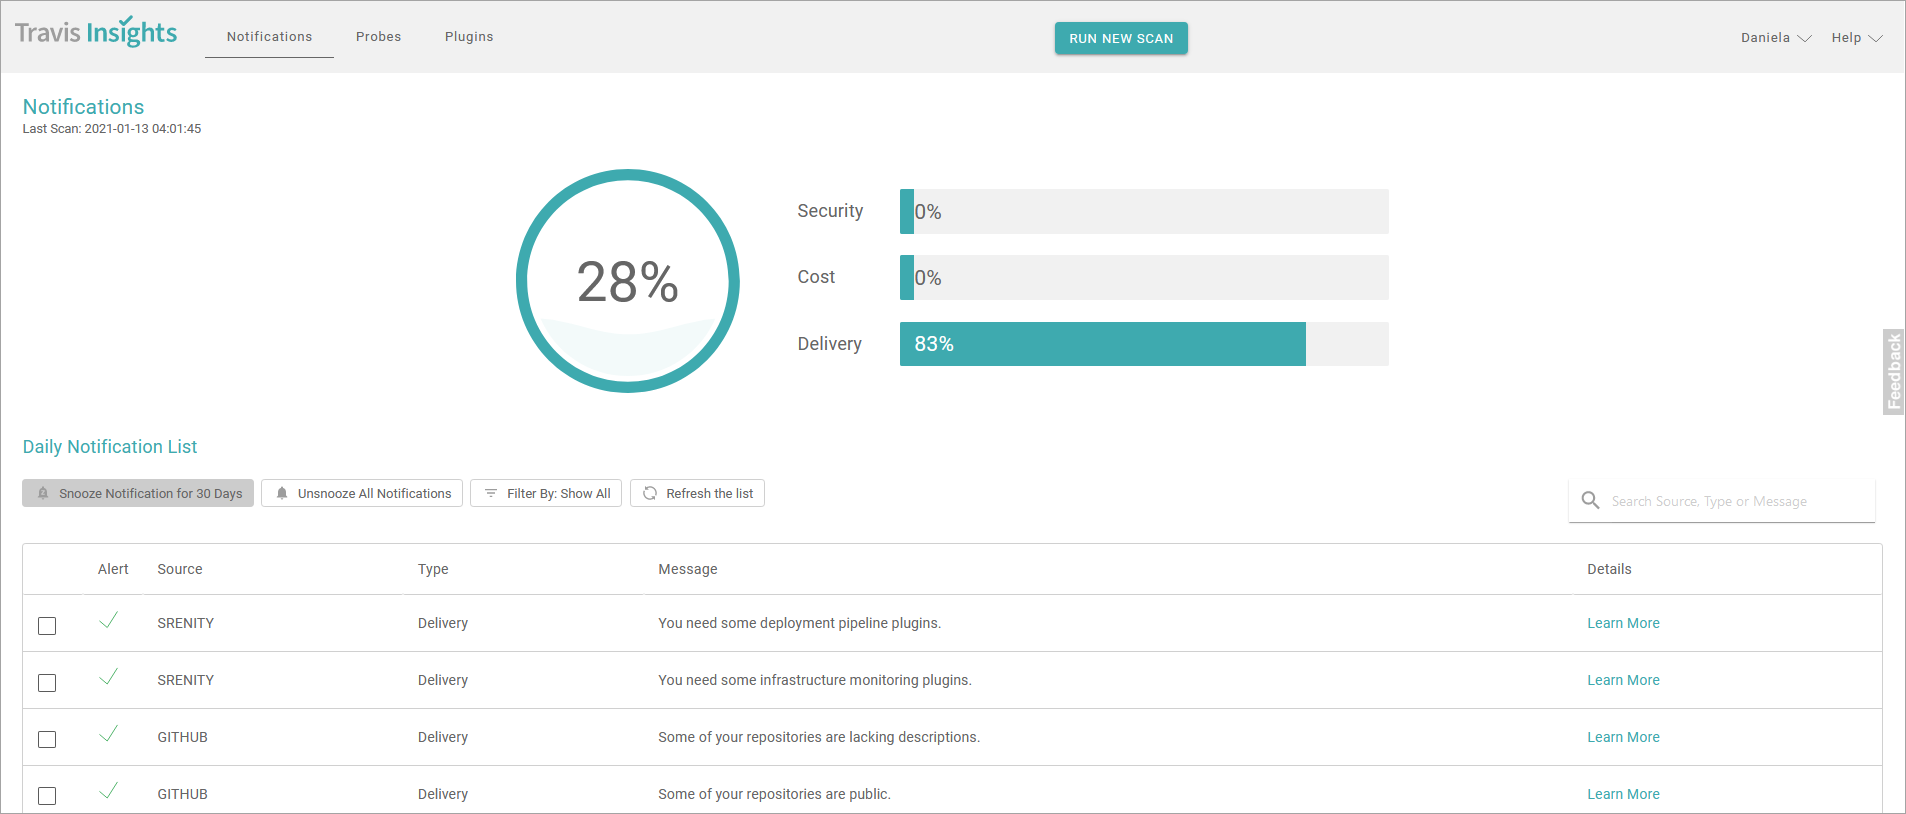
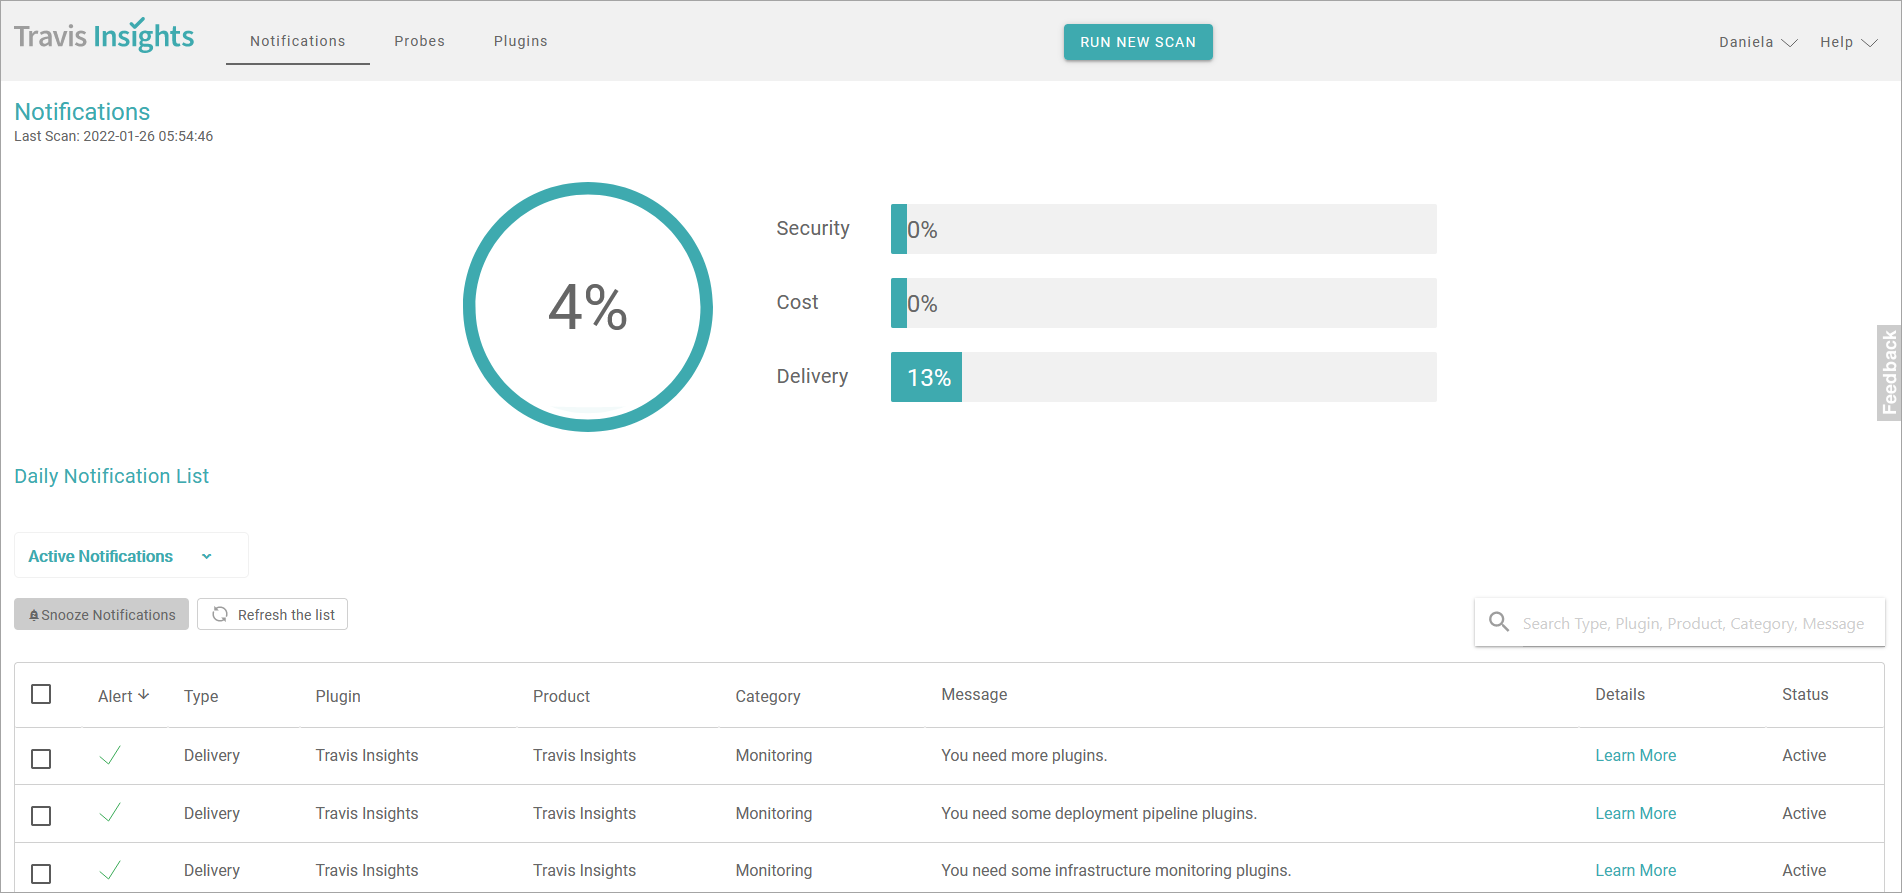
updates

diff --git a/assets/stylesheets/_top.sass b/assets/stylesheets/_top.sass
@@ -3,25 +3,6 @@
   position: relative
   margin: 0 1.5rem 0 $column-gutter/2
   float: left
-  b
-    display: block
-    width: 100px
-    height: $top-height
-    z-index: 999
-    outline: none
-    text-indent: -9999px
-    transition: background-color 200ms ease
[1 lines of base64/hex data omitted]
-
-    &:hover
[1 lines of base64/hex data omitted]
-
-    .insights &
-      width: 232px
[1 lines of base64/hex data omitted]
-      &:hover
[1 lines of base64/hex data omitted]
-   
   a
     display: block
     width: 100px
@@ -37,7 +18,7 @@
 
     .enterprise &
       width: 232px
[2 lines of base64/hex data omitted]
       &:hover
[1 lines of base64/hex data omitted]
 
@@ -47,9 +28,7 @@
 .top
   background-color: #f1f1f1
   .enterprise &
-    background-color: #333333
-  .insights &
-    background-color: #c0392b
+    background-color: #333333  
 
 .topbar
   font-size: $font-size-m
@@ -84,11 +63,6 @@
       text-decoration: underline
     .enterprise &
       color: white
-      &:hover
-        color: $grey-medium
-        text-decoration: none
-    .insights &
-      color: red
       &:hover
         color: $grey-medium
         text-decoration: none

diff --git a/_includes/insights_sidebar.html b/_includes/insights_sidebar.html
@@ -46,9 +46,9 @@
         <li><a href="/user/insights/weighting-probes">Weighting Probes</a></li>
       </ul>
 
-      <h3>SREQL Languaje</h3>
+      <h3>SREQL Language</h3>
       <ul>
-        <li><a href="/user/insights/sreql-language">SREQL Languaje</a></li>
+        <li><a href="/user/insights/sreql-language">SREQL Language</a></li>
       </ul>
 
       <h3>Scans and Results</h3>

diff --git a/user/insights/sreql-language.md b/user/insights/sreql-language.md
@@ -6,7 +6,7 @@ layout: en_insights
 
 While adding a probe you find the **EDIT QUERY** button in the **Query** field. The button displays a window where you can edit and test all your queries.
 
-![probeEditor](/user/images-insights/probeEditor.png) 
+![probeEditor](/user/images-insights/probeEditor1.png) 
 
 Go to the **Plugin** drop-down menu and select the plugin you want to use, click the **LOAD** button and you will see how the Sample JSON displays.
 
@@ -176,51 +176,34 @@ SREQL queries:
 
 *SREQL query:*
 
-      FROM $..standardDeviation
-      ASSERT @ IS 0.0
+      ASSERT count($.Plugins) > 1
+
+*Output:*
+
+      - Array of elements that do not match the query:
+      true
 
 #### Example 2
 
 *SREQL query:*
 
-      FROM $.Milestones
-      ASSERT COUNT < 6
+      ASSERT count($.Plugins[@.plugin_category is "source_control"]) > 0
+
+*Output:*
+
+      - Array of elements that do not match the query:
+      true
 
 #### Example 3
 
 *SREQL query:*
 
-      FROM $.Milestones
-      WHERE @.is_completed is false
-      ASSERT COUNT < 6
+      ASSERT $.Resources.core.limit - $.Resources.core.remaining > 500
 
-#### Example 4
+*Output:*
 
-*SREQL query:*
-
-      FROM $.PageViewsDuration
-      ASSERT AVG("pageViews/duration") 
-      IS NOT NULL AND AVG("pageViews/duration") < 4000
-
-#### Example 5
-
-*SREQL query:*
-
-      ASSERT AVG($.PageViewsDuration ."pageViews/duration") 
-      IS NOT NULL AND AVG($.PageViewsDuration ."pageViews/duration") < 4000
-
-#### Example 6
-
-*SREQL query:*
-
-      FROM $.Builds
-      ASSERT COUNT(@.status is "failed") / COUNT < 0.05
-
-#### Example 7
-
-*SREQL query:*
-
-      ASSERT COUNT($.Builds[@.status is "failed") / COUNT($.Builds) < 0.05
+      - Array of elements that do not match the query:
+      false
 
 
 ### Two sets results queries
@@ -231,43 +214,50 @@ SREQL queries:
 
 *SREQL query:*
 
-      SELECT application_name
-      FROM $.EmailDigests
-      ASSERT @.enabled IS true
+      SELECT full_name 
+      FROM $.Repositories 
+      ASSERT toMillis(dateTime(@.updated_on, "%Y-%m-%dT%H:%M:%S.%f%z")) > toMillis(now()) - 30*24*60*60*1000
+
+*Output:*
+
+      - Array of elements that match the query:
+
+
+      - Array of elements that do not match the query:
+      RepositoryName1
+      RepositoryName2
+      RepositoryName3
+
 
 #### Example 2
 
 *SREQL query:*
 
-      SELECT application_name
-      FROM $.EmailDigests
-      WHERE @.type IS "marketing"
-      ASSERT @.enabled IS true
+      SELECT full_name 
+      FROM $.Repositories 
+      ASSERT @.is_private is true
+
+*Output:*
+
+      - Array of elements that match the query:
+      RepositoryName1
+      RepositoryName2
+
+      - Array of elements that do not match the query:
 
 #### Example 3
 
 *SREQL query:*
 
-      SELECT space_name
-      FROM $.Milestones
-      WHERE @.is_completed IS false
-      ASSERT toMillis(dateTime(@.due_date, "%Y-%m-%d")) > toMillis(now()) - 24*60*60*1000
+      SELECT full_name 
+      FROM $.Repositories 
+      ASSERT len(@.description) < 10
 
-#### Example 4
+*Output:*
 
-*SREQL query:*
+      - Array of elements that match the query:
+      RepositoryName1
+      RepositoryName2
 
-      SELECT plan.name
-      FROM $.Builds
-      ASSERT toMillis(dateTime(@.buildCompletedTime, "%Y-%m-%dT%H:%M:%S.%fZ")) > toMillis(now()) - 7*24*60*60*1000) AND @.buildState IS NOT "Successful"
-
-#### Example 5
-
-*SREQL query:*
-
-      SELECT name
-      FROM $.SecurityContacts
-      ASSERT len(@.properties.phone) > 0
-
-
-
+      - Array of elements that do not match the query:
+      RepositoryName3

diff --git a/user/insights/weighting-probes.md b/user/insights/weighting-probes.md
@@ -38,8 +38,10 @@ If you have a probe which ensures our MySQL security patches are up-to-date. The
 |  **Maintenance** |     0.75     |      0       |       0      |
 
 
-> Probes with 0 as a weighting, don't get counted on the weight average percentage.
+> Probes weighted with 0 don't get counted in the average weight percentage.
 
-We generally try to avoid "double counting" on probe weightings (i.e. one could argue that security patching also has an impact on delivery and/or cost, but it is primarily a security issue) unless the issue is so severe that it warrants doing so to raise it to the top of our list.  Likewise, when the impact is spread evenly across sub-categories, we try to just split the weight evenly between them.
+When weighting a probe, to avoid “double counting”, the category that is most relevant is generally taken into account (i.e. one could suggest that security patching also has an impact on delivery and/or cost, but it is primarily a security issue). Some exceptions occur when the issues are severe. 
+
+When the probe weighting also includes sub-categories, Travis Insights tries to distribute the weighting evenly.
 
 As a rule of thumb, a highly impactful probe will have a total score total of 2.5+.  A probe of average importance will be weighted in the 1.5 - 2.5 range.  A probe of low importance will range between 0.5 - 1.5 in weighting.

diff --git a/user/insights/sandbox.md b/user/insights/sandbox.md
@@ -13,10 +13,10 @@ Go to the **Plugin** drop-down menu and select the plugin you want to use, click
 
 Add any query you want to test in the **Query** space, click the button **RUN** and you will receive an Output for the specific query. 
 
-## Query Languaje
+## Query Language
 
-Travis Insights uses the **ObjectPath** query languaje, objectPath is an agile NoSQL query language for semi-structured data that uses embedded arithmetic calculations, comparison mechanisms, and built-in functions. This languaje works over JSON documents rather than relations. 
-The languaje lets you work with selector mechanisms, boolean logic, type system, and string concatenation. You can find data in big nested JSON documents.
+Travis Insights uses the **ObjectPath** query language, objectPath is an agile NoSQL query language for semi-structured data that uses embedded arithmetic calculations, comparison mechanisms, and built-in functions. This language works over JSON documents rather than relations. 
+The language lets you work with selector mechanisms, boolean logic, type system, and string concatenation. You can find data in big nested JSON documents.
 
 In the following table you can find complete syntax of ObjectPath paths: 
 

diff --git a/user/insights/home.md b/user/insights/home.md
@@ -6,7 +6,7 @@ layout: en_insights
 
 Travis Insights is a web application designed to provide actionable operational insights and intelligence, uses built-in plugins and probes to connect with SaaS products analyzing the response data to find any defect in their configuration. Everyone has limited time and resources, Travis Insights examines the mountains of data created by your development and operations environments to help you triage issues and prioritize DevOps work.
 
-![Home](/user/images-insights/Home_View.png) 
+![Home](/user/images-insights/notificationTI.png) 
 
 ### Contents
 - [Getting Started](../getting-started)
